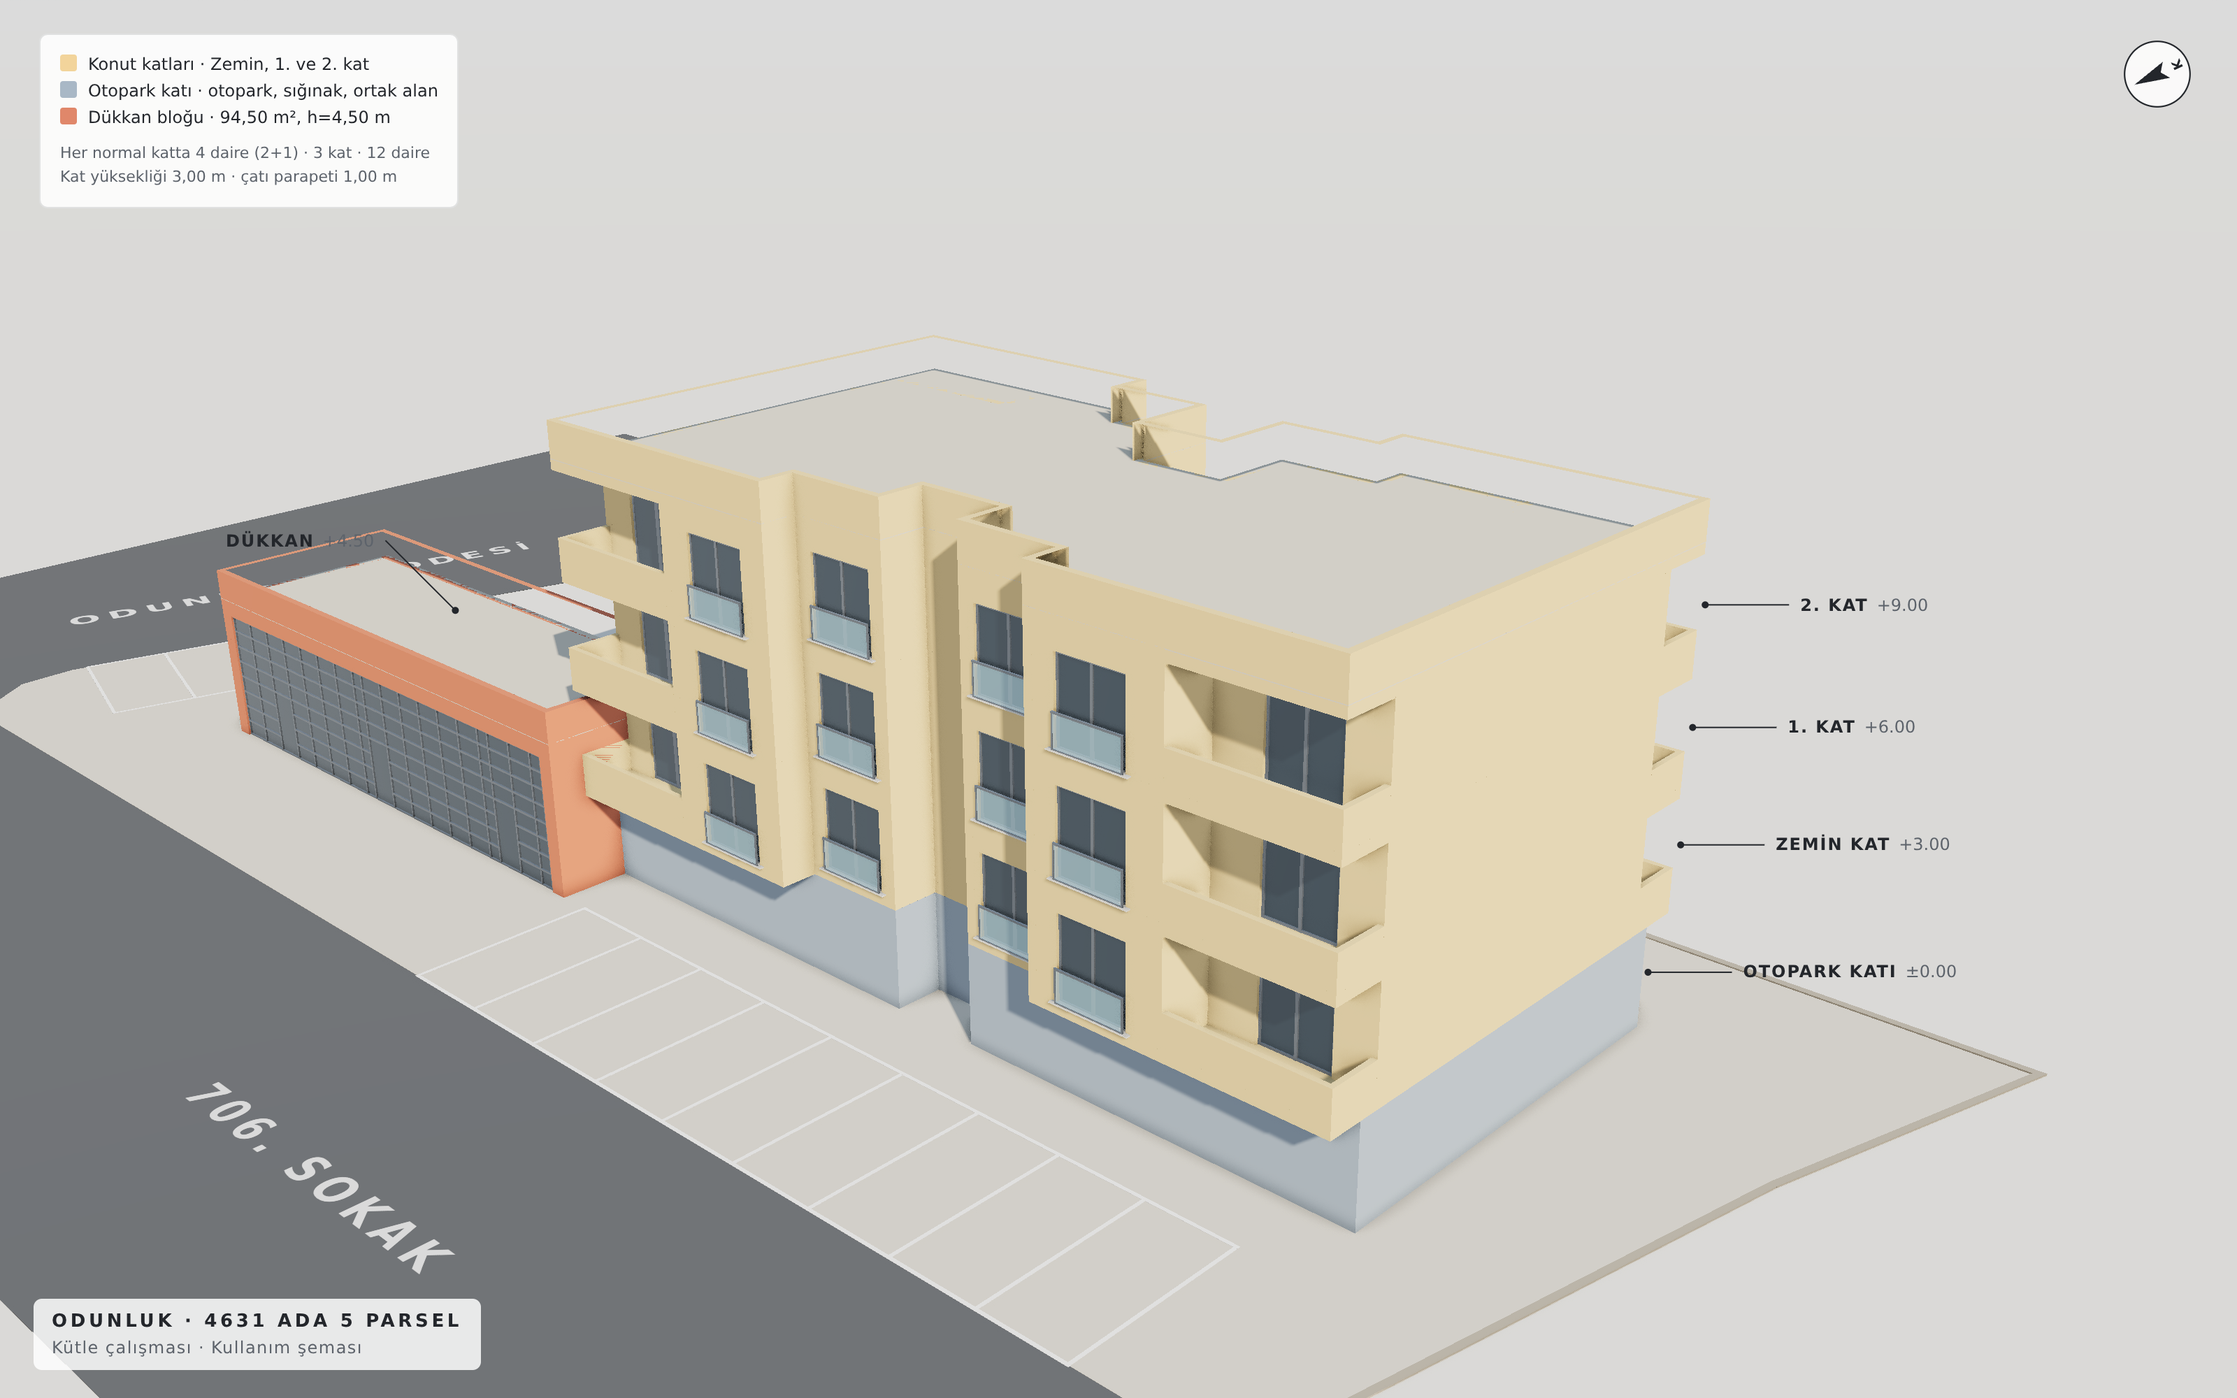
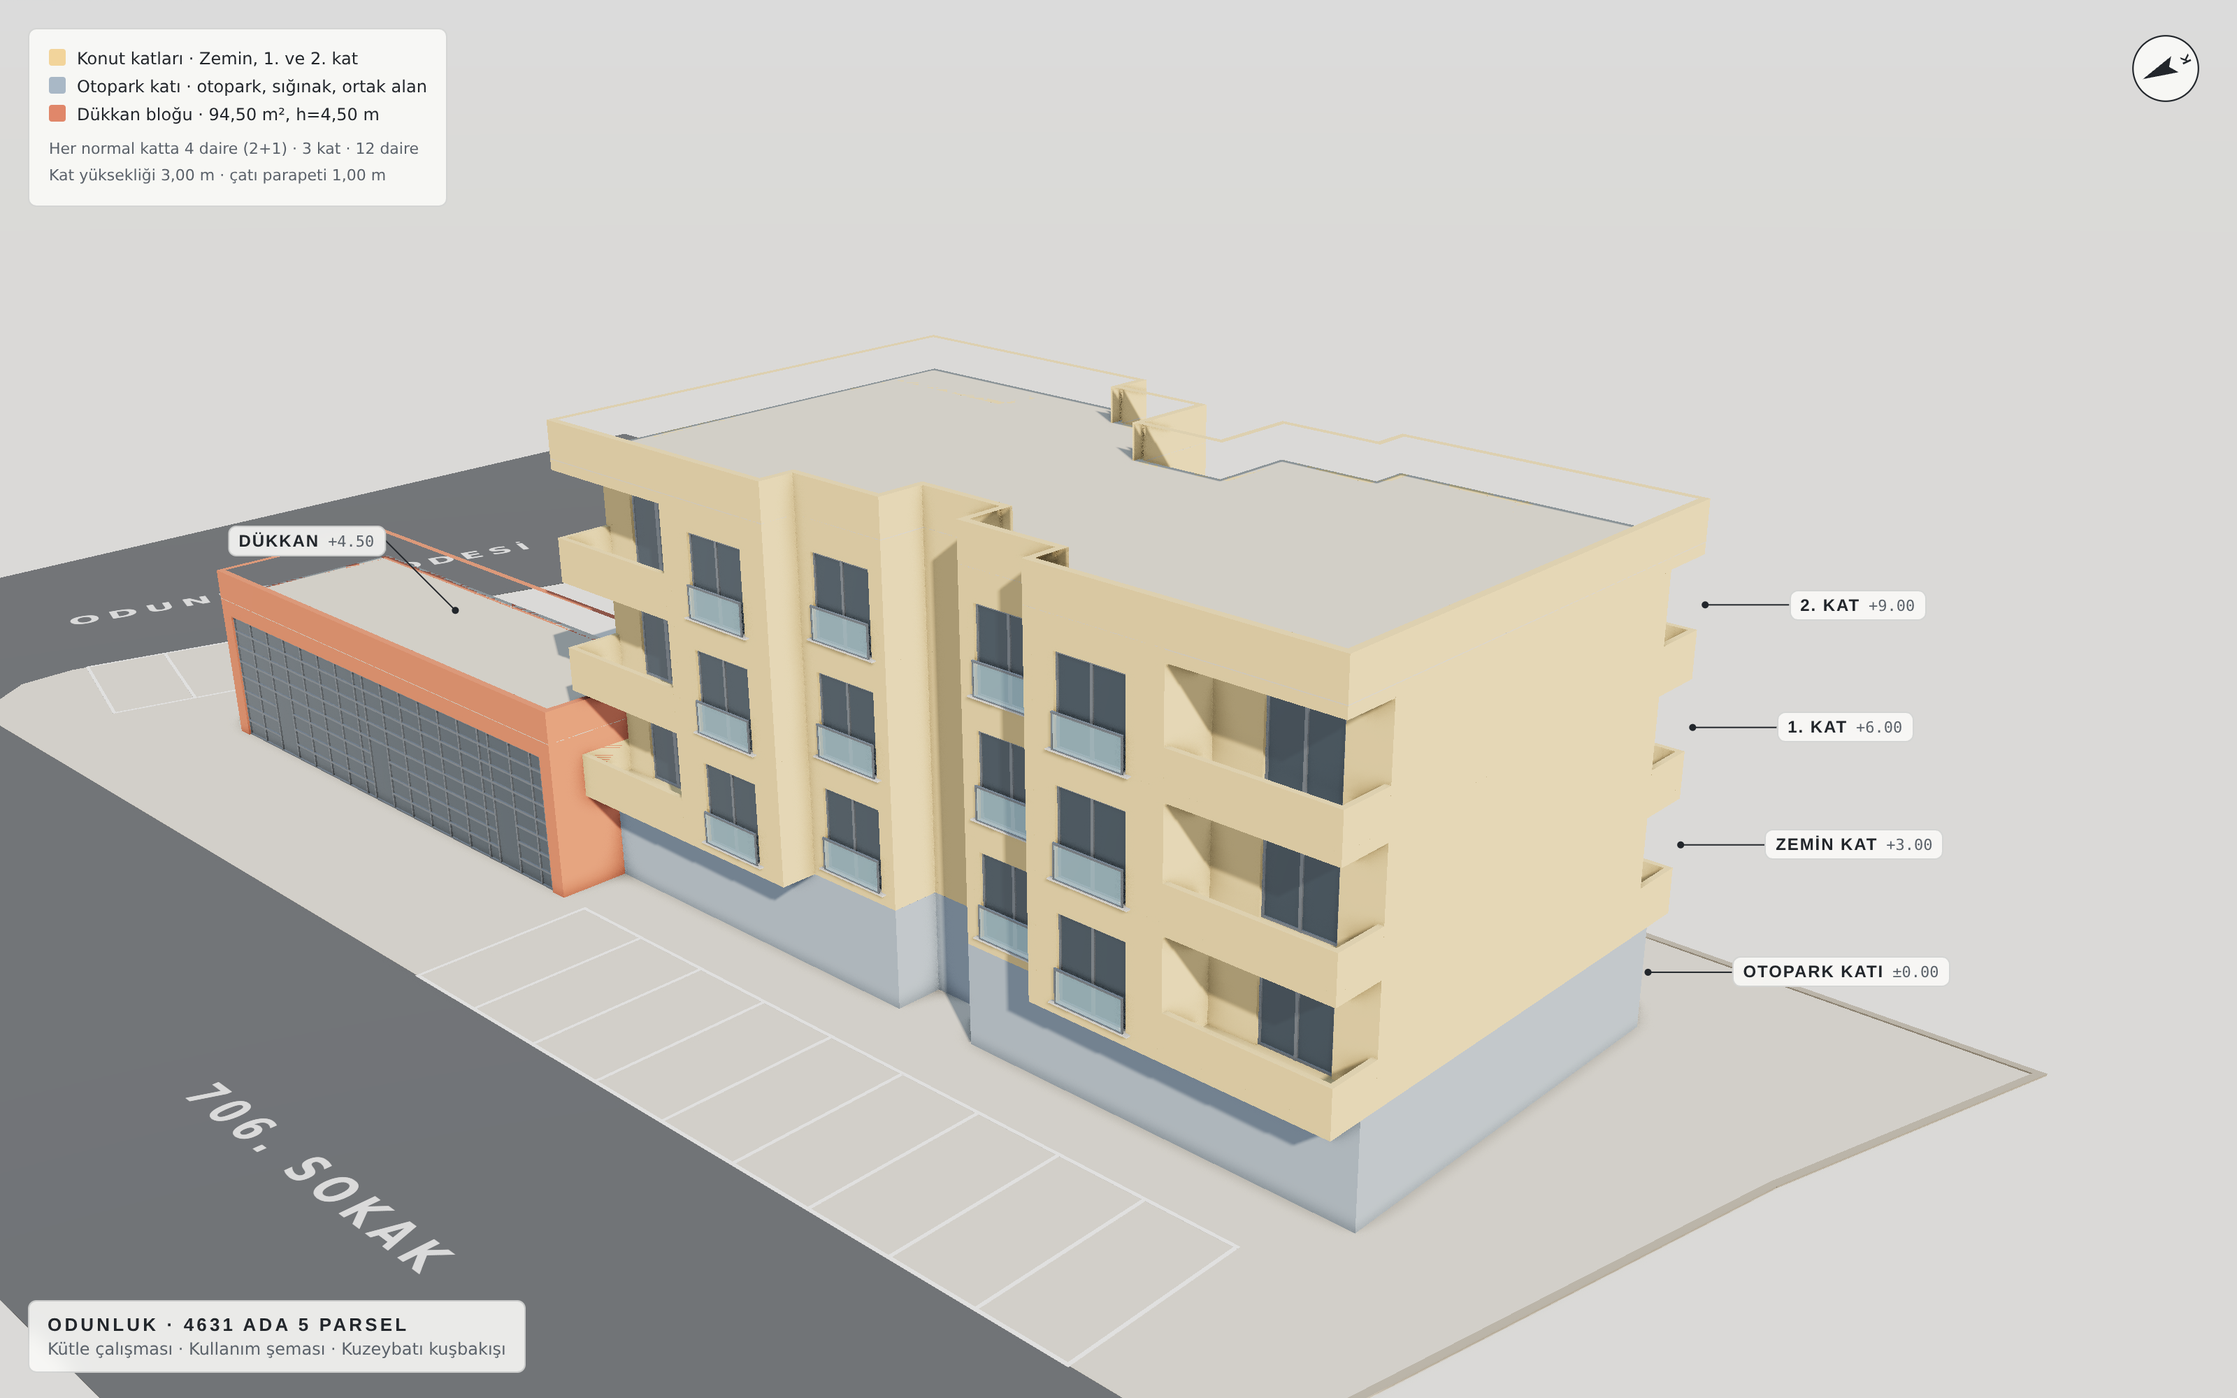
Viewer: theme tokens, hash routing and in-page land-use toggle
The viewer now opens a view from the URL hash (#sokak, #vaziyet, #sema
...) and switches between the material and land-use models without
reloading. Overlays read in light and dark themes, the toolbar scrolls
on narrow screens, and the camera pulls back on portrait screens.
Renders were refreshed with the new title box.

Claude-Session: https://claude.ai/code/session_011yx2Jj1HBVCtGYyTLKKwAK

diff --git a/odunluk-4631-5-kutle/index.html b/odunluk-4631-5-kutle/index.html
@@ -4,36 +4,59 @@
 <meta charset="utf-8">
 <meta name="viewport" content="width=device-width, initial-scale=1">
 <title>Odunluk 4631/5 Kütle</title>
+<link rel="preconnect" href="https://fonts.googleapis.com">
+<link rel="stylesheet" href="https://fonts.googleapis.com/css2?family=IBM+Plex+Mono:wght@400;500&family=IBM+Plex+Sans+Condensed:wght@500;600&family=IBM+Plex+Sans:wght@400;600&display=swap">
 <style>
+  /* Yerleşim: tam ekran 3B sahne; üstte görünüm çubuğu, köşelerde pafta başlığı, kuzey oku ve lejant */
   :root {
-    --bg-top: #dfe7ef; --bg-bottom: #f4f2ee; --ink: #23262b; --muted: #6b7078;
-    --panel: rgba(255,255,255,0.86); --line: rgba(35,38,43,0.14); --accent: #b4542f;
+    --zemin: #e9ecee;              /* sahne yüklenene kadar görünen arka plan */
+    --panel: rgba(250,250,248,0.88);
+    --murekkep: #22262b;
+    --soluk: #5b626a;
+    --cizgi: rgba(34,38,43,0.16);
+    --vurgu: #a8502c;              /* dükkan tonundan türetilmiş seçim rengi */
+    --sahne-cizgi: #22262b;        /* sahne her temada açık renkli: etiket çizgileri koyu kalır */
+    --yazi: "IBM Plex Sans", "DejaVu Sans", "Liberation Sans", system-ui, sans-serif;
+    --etiket: "IBM Plex Sans Condensed", "DejaVu Sans Condensed", "Liberation Sans Narrow", "Arial Narrow", sans-serif;
+    --olcu: "IBM Plex Mono", "DejaVu Sans Mono", "Liberation Mono", ui-monospace, monospace;
   }
   @media (prefers-color-scheme: dark) {
-    :root:not([data-theme="light"]) { --panel: rgba(28,30,34,0.86); --ink: #eceae6; --muted: #a3a7ad; --line: rgba(236,234,230,0.16); }
+    :root:not([data-theme="light"]) { --zemin: #1c1f22; --panel: rgba(27,30,33,0.88); --murekkep: #ecebe7; --soluk: #a6acb2; --cizgi: rgba(236,235,231,0.18); --vurgu: #e2926c; color-scheme: dark; }
   }
-  :root[data-theme="dark"] { --panel: rgba(28,30,34,0.86); --ink: #eceae6; --muted: #a3a7ad; --line: rgba(236,234,230,0.16); }
-  html, body { margin: 0; height: 100%; overflow: hidden; background: #e9edf1; font-family: "DejaVu Sans", "Liberation Sans", system-ui, sans-serif; color: var(--ink); }
+  :root[data-theme="dark"] { --zemin: #1c1f22; --panel: rgba(27,30,33,0.88); --murekkep: #ecebe7; --soluk: #a6acb2; --cizgi: rgba(236,235,231,0.18); --vurgu: #e2926c; color-scheme: dark; }
+  html, body { margin: 0; height: 100%; overflow: hidden; }
+  body { background: var(--zemin); color: var(--murekkep); font-family: var(--yazi); }
   #sahne { position: fixed; inset: 0; }
-  canvas { display: block; }
+  canvas { display: block; touch-action: none; }
   .katman { position: fixed; inset: 0; pointer-events: none; }
-  .baslik { position: fixed; left: 24px; bottom: 20px; color: #23262b; pointer-events: none; background: rgba(255,255,255,0.84); border-radius: 6px; padding: 9px 13px; }
-  .baslik .ust { font-size: 13px; letter-spacing: 0.18em; font-weight: 700; }
-  .baslik .alt { font-size: 12px; letter-spacing: 0.06em; color: #5d636b; margin-top: 4px; }
-  .kuzey { position: fixed; right: 30px; top: 26px; width: 54px; height: 54px; pointer-events: none; }
-  .etiket { position: absolute; font-size: 12px; color: #23262b; white-space: nowrap; transform: translate(-100%, -50%); padding-right: 10px; }
-  .etiket b { font-weight: 700; letter-spacing: 0.08em; }
-  .etiket span { color: #5d636b; margin-left: 6px; }
-  .lejant { position: fixed; left: 28px; top: 24px; background: rgba(255,255,255,0.88); border: 1px solid rgba(35,38,43,0.12); border-radius: 6px; padding: 12px 14px; font-size: 12px; color: #23262b; line-height: 1.6; pointer-events: none; }
+  .kutu { background: var(--panel); border: 1px solid var(--cizgi); border-radius: 6px; color: var(--murekkep); backdrop-filter: blur(6px); }
+  .baslik { position: fixed; left: calc(20px + env(safe-area-inset-left, 0px)); bottom: calc(18px + env(safe-area-inset-bottom, 0px)); pointer-events: none; padding: 9px 13px; }
+  .baslik .ust { font-family: var(--etiket); font-size: 13px; letter-spacing: 0.16em; font-weight: 600; }
+  .baslik .alt { font-size: 12px; color: var(--soluk); margin-top: 3px; }
+  .kuzey { position: fixed; right: calc(24px + env(safe-area-inset-right, 0px)); top: calc(22px + env(safe-area-inset-top, 0px)); width: 54px; height: 54px; pointer-events: none; }
+  .kuzey circle { fill: var(--panel); stroke: var(--murekkep); }
+  .kuzey path, .kuzey text { fill: var(--murekkep); }
+  .kuzey text { font-family: var(--etiket); }
+  .etiket { position: absolute; font-size: 12px; white-space: nowrap; padding: 3px 7px; }
+  .etiket b { font-family: var(--etiket); font-weight: 600; letter-spacing: 0.08em; }
+  .etiket span { font-family: var(--olcu); color: var(--soluk); margin-left: 6px; font-size: 11px; }
+  .lejant { position: fixed; left: calc(20px + env(safe-area-inset-left, 0px)); top: calc(20px + env(safe-area-inset-top, 0px)); padding: 12px 14px; font-size: 12px; line-height: 1.65; pointer-events: none; max-width: calc(100vw - 40px); }
   .lejant i { display: inline-block; width: 12px; height: 12px; border-radius: 2px; margin-right: 8px; vertical-align: -1px; }
-  .lejant .not { color: #5d636b; font-size: 11px; margin-top: 6px; }
-  .arac { position: fixed; left: 16px; top: 16px; right: 16px; display: flex; gap: 6px; pointer-events: auto; overflow-x: auto; scrollbar-width: none; }
+  .lejant .not { color: var(--soluk); font-size: 11px; margin-top: 6px; font-variant-numeric: tabular-nums; }
+  .arac { position: fixed; left: 0; right: 0; top: 0; padding: calc(14px + env(safe-area-inset-top, 0px)) max(16px, env(safe-area-inset-right, 0px)) 0 max(16px, env(safe-area-inset-left, 0px)); display: flex; gap: 6px; pointer-events: auto; overflow-x: auto; scrollbar-width: none; }
   .arac::-webkit-scrollbar { display: none; }
-  .arac button { flex: 0 0 auto; white-space: nowrap; }
-  body.ui .lejant { top: 64px; }
-  .arac button { font: inherit; font-size: 13px; padding: 7px 11px; border-radius: 6px; border: 1px solid var(--line); background: var(--panel); color: var(--ink); cursor: pointer; backdrop-filter: blur(6px); }
-  .arac button[aria-pressed="true"] { border-color: var(--accent); color: var(--accent); }
-  @media (max-width: 640px) { .baslik { left: 12px; bottom: 12px; } .lejant { left: 16px; top: 64px; font-size: 11px; } .kuzey { right: 16px; top: auto; bottom: 16px; width: 40px; height: 40px; } }
+  .arac button { flex: 0 0 auto; white-space: nowrap; font: inherit; font-size: 13px; padding: 7px 11px; border-radius: 6px; border: 1px solid var(--cizgi); background: var(--panel); color: var(--murekkep); cursor: pointer; backdrop-filter: blur(6px); }
+  .arac button:hover { border-color: var(--soluk); }
+  .arac button:focus-visible { outline: 2px solid var(--vurgu); outline-offset: 2px; }
+  .arac button[aria-pressed="true"] { border-color: var(--vurgu); color: var(--vurgu); }
+  .arac .ayrac { flex: 0 0 1px; background: var(--cizgi); margin: 4px 4px; }
+  body.ui .lejant { top: calc(64px + env(safe-area-inset-top, 0px)); }
+  body.ui .kuzey { top: auto; bottom: calc(18px + env(safe-area-inset-bottom, 0px)); }
+  @media (max-width: 640px) {
+    .baslik { left: calc(12px + env(safe-area-inset-left, 0px)); bottom: calc(12px + env(safe-area-inset-bottom, 0px)); }
+    .lejant { left: calc(12px + env(safe-area-inset-left, 0px)); font-size: 11px; }
+    .kuzey { width: 42px; height: 42px; right: calc(12px + env(safe-area-inset-right, 0px)); }
+  }
 </style>
 <script type="importmap">
 { "imports": {
@@ -46,11 +69,11 @@
 <div id="sahne"></div>
 <div class="katman" id="etiketler"></div>
 <svg class="kuzey" id="kuzey" viewBox="-30 -30 60 60" aria-label="Kuzey">
-  <g id="kuzeyOk"><circle r="26" fill="rgba(255,255,255,0.85)" stroke="#23262b" stroke-width="1.2"/>
-  <path d="M0,-20 L7,8 L0,3 L-7,8 Z" fill="#23262b"/><text y="21" text-anchor="middle" font-size="10" font-weight="700" fill="#23262b">K</text></g>
+  <g id="kuzeyOk"><circle r="26" stroke-width="1.2"/>
+  <path d="M0,-20 L7,8 L0,3 L-7,8 Z"/><text y="21" text-anchor="middle" font-size="10" font-weight="600">K</text></g>
 </svg>
-<div class="baslik" id="baslik"><div class="ust">ODUNLUK · 4631 ADA 5 PARSEL</div><div class="alt" id="altBaslik">Kütle çalışması</div></div>
-<div class="lejant" id="lejant" hidden></div>
+<div class="baslik kutu" id="baslik"><div class="ust">ODUNLUK · 4631 ADA 5 PARSEL</div><div class="alt" id="altBaslik">Kütle çalışması</div></div>
+<div class="lejant kutu" id="lejant" hidden></div>
 <div class="arac" id="arac" hidden></div>
 
 <script type="module">
@@ -63,7 +86,8 @@ import { OutputPass } from 'three/addons/postprocessing/OutputPass.js';
 import { sahneKur, etiketNoktalari, KOT } from './kutle.js';
 
 const q = new URLSearchParams(location.search);
-const MOD = q.get('mod') || 'render';
+const HASH = (location.hash || '').slice(1);
+let MOD = q.get('mod') || (HASH === 'sema' ? 'diyagram' : 'render');
 const UI = q.get('ui') !== '0';
 // ortam kapatma (AO): render modunda açık; etkileşimli görüntüleyicide ?ao=1 ile açılır
 let AO = q.has('ao') ? q.get('ao') !== '0' : !UI;
@@ -75,10 +99,10 @@ const GORUNUS = {
   kose:      { ad: '706. Sokak\'tan yaya bakışı', poz: [21, 1.7, -19], hedef: [-6, 6.2, -3], fov: 56, gunes: [70, 24] },
   guneybati: { ad: 'Güneybatı kuşbakışı', poz: [-40, 28, 40], hedef: [-3, 3.5, 0.5], fov: 34, gunes: [235, 36] },
   vaziyet:   { ad: 'Vaziyet (üstten)', ust: true, gunes: [225, 64], ortam: 0.75 },
-  diyagram:  { ad: 'Kullanım şeması', poz: [-44, 27, -36], hedef: [-5, 4, 7], fov: 35, gunes: [300, 34] },
+  diyagram:  { ad: 'Kuzeybatı kuşbakışı', poz: [-44, 27, -36], hedef: [-5, 4, 7], fov: 35, gunes: [300, 34] },
 };
 if (q.get('kam')) GORUNUS.ozel = { ad: 'Özel', poz: q.get('kam').split(',').map(Number), hedef: (q.get('hedef') || '0,4,0').split(',').map(Number), fov: Number(q.get('fov') || 30), gunes: (q.get('gunes') || '62,30').split(',').map(Number) };
-const viewKey = q.get('kam') ? 'ozel' : (q.get('gorunus') || (MOD === 'diyagram' ? 'diyagram' : 'kuzeydogu'));
+const viewKey = q.get('kam') ? 'ozel' : (q.get('gorunus') || (HASH === 'sema' ? 'diyagram' : (GORUNUS[HASH] && HASH !== 'ozel' ? HASH : (MOD === 'diyagram' ? 'diyagram' : 'kuzeydogu'))));
 
 // --- renderer
 const kap = document.getElementById('sahne');
@@ -186,10 +210,14 @@ function gorunusSec(k) {
     persp.position.set(...v.poz).sub(controls.target).multiplyScalar(k).add(controls.target);
     persp.lookAt(controls.target); persp.updateProjectionMatrix(); controls.enabled = UI; controls.update();
   }
-  document.getElementById('altBaslik').textContent = 'Kütle çalışması · ' + v.ad;
+  altBaslikYaz();
   yazilariCevir();
   composerKur();
   for (const b of document.querySelectorAll('#arac [data-g]')) b.setAttribute('aria-pressed', String(b.dataset.g === k));
+}
+
+function altBaslikYaz() {
+  document.getElementById('altBaslik').textContent = 'Kütle çalışması · ' + (MOD === 'diyagram' ? 'Kullanım şeması · ' : '') + GORUNUS[aktif].ad;
 }
 
 // sokak adlarını bakış yönünden okunacak şekilde çevir
@@ -243,17 +271,16 @@ function etiketler() {
   etiketKatmani.appendChild(svg);
   const cizgi = (x1, y1, x2, y2) => {
     const l = document.createElementNS(svg.namespaceURI, 'line');
-    Object.entries({ x1, y1, x2, y2, stroke: '#23262b', 'stroke-width': 1 }).forEach(([a, b]) => l.setAttribute(a, b));
+    Object.entries({ x1, y1, x2, y2, stroke: 'var(--sahne-cizgi)', 'stroke-width': 1 }).forEach(([a, b]) => l.setAttribute(a, b));
     svg.appendChild(l);
     const c = document.createElementNS(svg.namespaceURI, 'circle');
-    Object.entries({ cx: x1, cy: y1, r: 2.5, fill: '#23262b' }).forEach(([a, b]) => c.setAttribute(a, b));
+    Object.entries({ cx: x1, cy: y1, r: 2.5, fill: 'var(--sahne-cizgi)' }).forEach(([a, b]) => c.setAttribute(a, b));
     svg.appendChild(c);
   };
   const yazi = (x, y, html, sol) => {
-    const d = document.createElement('div'); d.className = 'etiket';
+    const d = document.createElement('div'); d.className = 'etiket kutu';
     d.style.left = x + 'px'; d.style.top = y + 'px';
     d.style.transform = sol ? 'translate(-100%,-50%)' : 'translate(0,-50%)';
-    d.style.padding = sol ? '0 8px 0 0' : '0 0 0 8px';
     d.innerHTML = html; etiketKatmani.appendChild(d);
   };
   for (const k of E.katlar) {
@@ -271,13 +298,20 @@ if (UI) {
   document.body.classList.add('ui');
   const arac = document.getElementById('arac'); arac.hidden = false;
   for (const [k, v] of Object.entries(GORUNUS)) {
-    if (k === 'diyagram') continue;
-    const b = document.createElement('button'); b.dataset.g = k; b.textContent = v.ad.split(' · ')[0].replace(' kuşbakışı', '');
-    b.onclick = () => { gorunusSec(k); }; arac.appendChild(b);
+    if (k === 'diyagram' || k === 'ozel') continue;
+    const b = document.createElement('button'); b.type = 'button'; b.dataset.g = k; b.textContent = v.ad.split(' · ')[0].replace(' kuşbakışı', '');
+    b.onclick = () => { gorunusSec(k); try { history.replaceState(null, '', '#' + (MOD === 'diyagram' ? 'sema' : k)); } catch (e) {} };
+    arac.appendChild(b);
   }
-  const m = document.createElement('button'); m.textContent = MOD === 'diyagram' ? 'Malzemeli görünüm' : 'Kullanım şeması';
-  m.onclick = () => { const u = new URL(location.href); u.searchParams.set('mod', MOD === 'diyagram' ? 'render' : 'diyagram'); u.searchParams.delete('gorunus'); location.href = u; };
-  arac.appendChild(m);
+  const ay = document.createElement('span'); ay.className = 'ayrac'; arac.appendChild(ay);
+  const m = document.createElement('button'); m.type = 'button'; m.id = 'modDugmesi';
+  const modYaz = () => { m.textContent = 'Kullanım şeması'; m.setAttribute('aria-pressed', String(MOD === 'diyagram')); };
+  m.onclick = () => {
+    MOD = MOD === 'diyagram' ? 'render' : 'diyagram';
+    modelKur(MOD); yazilariCevir(); modYaz(); altBaslikYaz(); etiketGerek = true; etiketler();
+    try { history.replaceState(null, '', '#' + (MOD === 'diyagram' ? 'sema' : aktif)); } catch (e) {}
+  };
+  modYaz(); arac.appendChild(m);
 }
 
 addEventListener('resize', () => {

diff --git a/odunluk-4631-5-kutle/README.md b/odunluk-4631-5-kutle/README.md
@@ -15,7 +15,7 @@ Verilen üç AutoCAD çıktısından (vaziyet + zemin kat planı, normal kat pla
 | `05_vaziyet_ustten.png` | Üstten vaziyet: parsel, otoparklar, sokak adları |
 | `06_kullanim_semasi.png` | Kullanıma göre boyanmış kütle: kat etiketleri, kotlar, özet |
 
-`index.html` aynı modeli tarayıcıda döndürülebilir olarak açar (görünüm düğmeleri + "Kullanım şeması" geçişi).
+`index.html` aynı modeli tarayıcıda döndürülebilir olarak açar. Görünüm düğmeleri ve "Kullanım şeması" geçişi vardır. Adresin sonuna `#sokak`, `#kose`, `#guneybati`, `#vaziyet` ya da `#sema` eklenirse sayfa doğrudan o görünümle açılır.
 
 ## Çizimlerden alınan ölçüler
 
